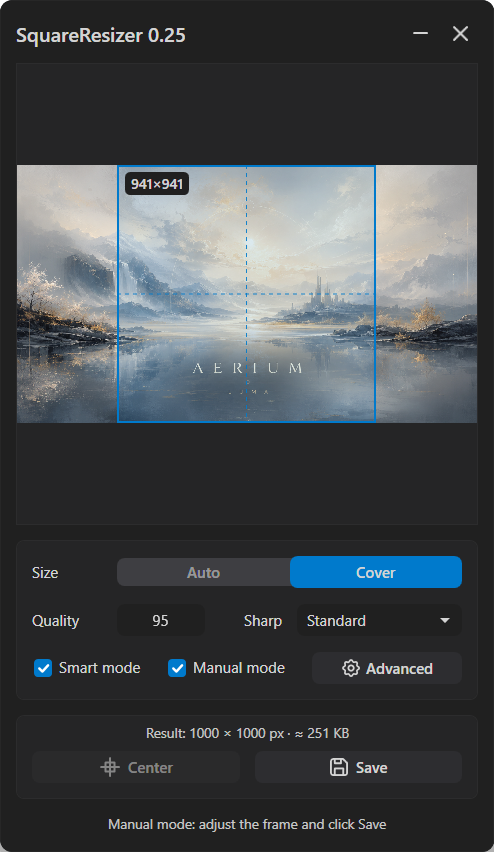
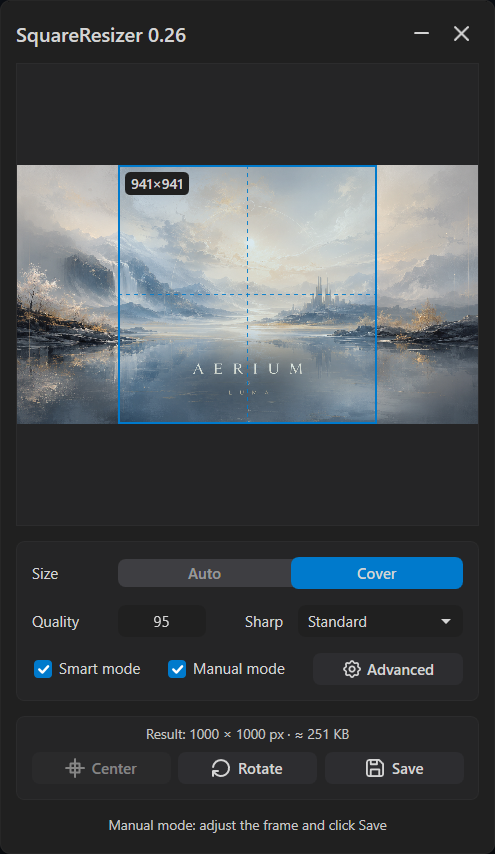
0.26: add manual rotation and per-monitor DPI support

diff --git a/MainWindow.xaml b/MainWindow.xaml
@@ -5,7 +5,7 @@
         xmlns:local="clr-namespace:ImageSquareResizer"
         xmlns:shell="clr-namespace:System.Windows.Shell;assembly=PresentationFramework"
         Title="SquareResizer"
-        Icon="Assets/app.ico"
+        Icon="Assets/squareresizer.ico"
         SizeToContent="WidthAndHeight"
         ResizeMode="CanMinimize"
         WindowStyle="None"
@@ -705,7 +705,9 @@
                     <Grid>
                         <Grid.ColumnDefinitions>
                             <ColumnDefinition Width="*" />
-                            <ColumnDefinition Width="12" />
+                            <ColumnDefinition Width="6" />
+                            <ColumnDefinition Width="*" />
+                            <ColumnDefinition Width="6" />
                             <ColumnDefinition Width="*" />
                         </Grid.ColumnDefinitions>
 
@@ -728,12 +730,39 @@
                                        FontFamily="Segoe UI"
                                        FontSize="12"
                                        FontWeight="SemiBold"
+                                       Foreground="{DynamicResource MainTextBrush}">
+                                <TextBlock.RenderTransform>
+                                    <TranslateTransform X="-1" />
+                                </TextBlock.RenderTransform>
+                            </TextBlock>
+                        </StackPanel>
+                    </Button>
+
+                    <Button x:Name="RotateManualButton"
+                            Grid.Column="2"
+                            Height="26"
+                            Style="{StaticResource RoundedButtonStyle}"
+                            Click="OnRotateManualButtonClick">
+                        <StackPanel Orientation="Horizontal"
+                                    HorizontalAlignment="Center"
+                                    VerticalAlignment="Center"
+                                    IsHitTestVisible="False">
+                            <controls:SvgIcon Width="14"
+                                              Height="14"
+                                              Margin="0,0,6,0"
+                                              Foreground="{DynamicResource MainTextBrush}"
+                                              Source="/Assets/Icons/rotate-cw.svg" />
+                            <TextBlock x:Name="RotateManualButtonText"
+                                       Text="Rotate"
+                                       FontFamily="Segoe UI"
+                                       FontSize="12"
+                                       FontWeight="SemiBold"
                                        Foreground="{DynamicResource MainTextBrush}" />
                         </StackPanel>
                     </Button>
 
                     <Button x:Name="SaveManualButton"
-                            Grid.Column="2"
+                            Grid.Column="4"
                             Height="26"
                             Style="{StaticResource RoundedButtonStyle}"
                             Click="OnSaveManualButtonClick">

diff --git a/UI/State/MainWindow.ManualWorkflow.cs b/UI/State/MainWindow.ManualWorkflow.cs
@@ -3,6 +3,7 @@ using System.IO;
 using System.Linq;
 using System.Windows;
 using System.Windows.Controls;
+using System.Windows.Media;
 using System.Windows.Media.Imaging;
 
 namespace ImageSquareResizer;
@@ -63,6 +64,13 @@ public partial class MainWindow
         e.Handled = true;
     }
 
+    private void OnRotateManualButtonClick(object sender, RoutedEventArgs e)
+    {
+        RotateManualPreviewClockwise();
+        PreviewHost.Focus();
+        e.Handled = true;
+    }
+
     private void OnSaveManualButtonClick(object sender, RoutedEventArgs e)
     {
         SaveManualPreview();
@@ -104,6 +112,7 @@ public partial class MainWindow
             manualState.SourcePath = sourcePath;
             manualState.ImageWidth = bitmap.PixelWidth;
             manualState.ImageHeight = bitmap.PixelHeight;
+            manualState.RotationQuarterTurns = 0;
             int initialCropSize = Math.Min(manualState.ImageWidth, manualState.ImageHeight);
             ApplyManualCrop(ManualCropGeometry.Center(
                 manualState.ImageWidth,
@@ -155,6 +164,37 @@ public partial class MainWindow
         return bitmap;
     }
 
+    private void RotateManualPreviewClockwise()
+    {
+        if (!manualState.IsLoaded ||
+            manualState.ImageWidth <= 0 ||
+            manualState.ImageHeight <= 0 ||
+            PreviewImage.Source is not BitmapSource bitmapSource)
+        {
+            return;
+        }
+
+        int previousWidth = manualState.ImageWidth;
+        int previousHeight = manualState.ImageHeight;
+        ManualCrop rotatedCrop = ManualCropGeometry.RotateClockwise(
+            GetManualCrop(),
+            previousWidth,
+            previousHeight);
+
+        var rotatedBitmap = new TransformedBitmap(bitmapSource, new RotateTransform(90));
+        rotatedBitmap.Freeze();
+
+        PreviewImage.Source = rotatedBitmap;
+        manualState.ImageWidth = previousHeight;
+        manualState.ImageHeight = previousWidth;
+        manualState.RotationQuarterTurns = (manualState.RotationQuarterTurns + 1) % 4;
+        ApplyManualCrop(rotatedCrop);
+
+        UpdateManualPreviewLayout();
+        UpdateManualActionButtons();
+        ScheduleManualFileSizeEstimate();
+    }
+
     private void SaveManualPreview()
     {
         if (!manualState.IsLoaded || string.IsNullOrWhiteSpace(manualState.SourcePath))
@@ -187,7 +227,8 @@ public partial class MainWindow
             manualState.CropSize,
             currentSettings.Language,
             currentSettings.AutoSizeStep,
-            currentSettings.OnlineServiceCompatibility);
+            currentSettings.OnlineServiceCompatibility,
+            manualState.RotationQuarterTurns);
 
         if (!result.Success)
         {
@@ -308,6 +349,7 @@ public partial class MainWindow
 
         SaveManualButton.IsEnabled = hasUnsavedChanges;
         CenterCropButton.IsEnabled = manualMode && manualState.IsLoaded && !IsManualCropCentered();
+        RotateManualButton.IsEnabled = manualMode && manualState.IsLoaded;
 
         if (hasUnsavedChanges)
         {
@@ -335,6 +377,7 @@ public partial class MainWindow
             manualState.CropX,
             manualState.CropY,
             manualState.CropSize,
+            manualState.RotationQuarterTurns,
             AppSettings.NormalizeQuality(quality),
             AppSettings.NormalizeResizeMode(currentSettings.ResizeMode),
             AppSettings.NormalizeSharpMode(currentSettings.SharpMode),

diff --git a/Services/ImageProcessor.cs b/Services/ImageProcessor.cs
@@ -362,7 +362,8 @@ internal static class ImageProcessor
         int cropSize,
         string language = AppSettings.DefaultLanguage,
         int autoSizeStep = AppSettings.DefaultAutoSizeStep,
-        bool onlineServiceCompatibility = AppSettings.DefaultOnlineServiceCompatibility)
+        bool onlineServiceCompatibility = AppSettings.DefaultOnlineServiceCompatibility,
+        int rotationQuarterTurns = 0)
     {
         Localization text = Localization.For(language);
 
@@ -401,6 +402,7 @@ internal static class ImageProcessor
                 cropX,
                 cropY,
                 cropSize,
+                rotationQuarterTurns,
                 autoSizeStep,
                 onlineServiceCompatibility,
                 text.InvalidImageSize);
@@ -432,7 +434,8 @@ internal static class ImageProcessor
         int cropY,
         int cropSize,
         int autoSizeStep = AppSettings.DefaultAutoSizeStep,
-        bool onlineServiceCompatibility = AppSettings.DefaultOnlineServiceCompatibility)
+        bool onlineServiceCompatibility = AppSettings.DefaultOnlineServiceCompatibility,
+        int rotationQuarterTurns = 0)
     {
         if (string.IsNullOrWhiteSpace(sourcePath))
         {
@@ -467,6 +470,7 @@ internal static class ImageProcessor
             cropX,
             cropY,
             cropSize,
+            rotationQuarterTurns,
             autoSizeStep,
             onlineServiceCompatibility,
             "Invalid image size.");
@@ -485,11 +489,20 @@ internal static class ImageProcessor
         int cropX,
         int cropY,
         int cropSize,
+        int rotationQuarterTurns,
         int autoSizeStep,
         bool onlineServiceCompatibility,
         string invalidImageSizeMessage)
     {
         image.AutoOrient();
+
+        int normalizedRotationQuarterTurns = ((rotationQuarterTurns % 4) + 4) % 4;
+
+        if (normalizedRotationQuarterTurns != 0)
+        {
+            image.Rotate(normalizedRotationQuarterTurns * 90.0);
+        }
+
         image.FilterType = FilterType.Lanczos;
 
         int imageWidth = (int)image.Width;

diff --git a/Services/Localization.cs b/Services/Localization.cs
@@ -62,6 +62,7 @@ internal sealed class Localization
     public string DropHereText => IsRussian ? "перенесите его сюда" : "drop it here";
     public string SaveButton => IsRussian ? "Сохранить" : "Save";
     public string CenterCropButton => IsRussian ? "Центрировать" : "Center";
+    public string RotateClockwiseButton => IsRussian ? "Повернуть" : "Rotate";
     public string CloseFileMenuItem => IsRussian ? "Закрыть файл" : "Close file";
     public string CenterCropButtonToolTip => IsRussian ? "Центрировать рамку" : "Center crop frame";
     public string SettingsButtonToolTip => IsRussian ? "Настройки" : "Settings";

diff --git a/UI/Interaction/ManualCropGeometry.cs b/UI/Interaction/ManualCropGeometry.cs
@@ -29,6 +29,19 @@ internal static class ManualCropGeometry
         return crop == Center(imageWidth, imageHeight, crop.Size);
     }
 
+    public static ManualCrop RotateClockwise(ManualCrop crop, int imageWidth, int imageHeight)
+    {
+        if (crop.Size <= 0 || imageWidth <= 0 || imageHeight <= 0)
+        {
+            return crop;
+        }
+
+        return new ManualCrop(
+            ClampCoordinate(imageHeight - crop.Y - crop.Size, imageHeight - crop.Size),
+            ClampCoordinate(crop.X, imageWidth - crop.Size),
+            crop.Size);
+    }
+
     public static ManualCrop Move(
         ManualCrop crop,
         int imageWidth,

diff --git a/UI/State/ManualPreviewState.cs b/UI/State/ManualPreviewState.cs
@@ -23,6 +23,8 @@ internal sealed class ManualPreviewState
 
     public int CropY { get; set; }
 
+    public int RotationQuarterTurns { get; set; }
+
     public ManualResultState? SavedResultState { get; set; }
 
     public double PreviewLeft { get; set; }
@@ -62,6 +64,7 @@ internal sealed class ManualPreviewState
         CropSize = 0;
         CropX = 0;
         CropY = 0;
+        RotationQuarterTurns = 0;
         SavedResultState = null;
         PreviewLeft = 0;
         PreviewTop = 0;

diff --git a/UI/Interaction/MainWindow.SettingsInteraction.cs b/UI/Interaction/MainWindow.SettingsInteraction.cs
@@ -177,6 +177,7 @@ public partial class MainWindow
         DropOrTextBlock.Text = text.DropOrText;
         DropHereTextBlock.Text = text.DropHereText;
         CenterCropButtonText.Text = text.CenterCropButton;
+        RotateManualButtonText.Text = text.RotateClockwiseButton;
         SaveManualButtonText.Text = text.SaveButton;
         SettingsButtonText.Text = text.AdvancedSettingsButtonText;
         CloseFileMenuItem.Header = text.CloseFileMenuItem;

diff --git a/UI/State/MainWindow.ManualEstimate.cs b/UI/State/MainWindow.ManualEstimate.cs
@@ -97,7 +97,8 @@ public partial class MainWindow
                         state.CropY,
                         state.CropSize,
                         state.AutoSizeStep,
-                        state.OnlineServiceCompatibility),
+                        state.OnlineServiceCompatibility,
+                        state.RotationQuarterTurns),
                     token);
             }
             finally

diff --git a/AdditionalPagesControl.xaml.cs b/AdditionalPagesControl.xaml.cs
@@ -31,7 +31,7 @@ public partial class AdditionalPagesControl : UserControl
         "Licenses/Magick.NET-Apache-2.0.txt",
         "Licenses/ImageMagick-License.txt",
         "Licenses/SharpVectors-BSD-3-Clause.txt",
-        "Licenses/SVG-Icons-Licenses.txt",
+        "Licenses/Tabler-MIT.txt",
     };
 
     private AppSettings settingsDraft = new();

diff --git a/UI/State/ManualResultState.cs b/UI/State/ManualResultState.cs
@@ -5,6 +5,7 @@ internal readonly record struct ManualResultState(
     int CropX,
     int CropY,
     int CropSize,
+    int RotationQuarterTurns,
     int Quality,
     string ResizeMode,
     string SharpMode,

diff --git a/README.md b/README.md
@@ -16,7 +16,7 @@ SquareResizer is a compact portable Windows utility that converts images to squa
 
 - Regular processing of one or more images
 - Safe square cropping without stretching
-- Manual mode with preview and a resizable crop frame
+- Manual mode with preview, a resizable crop frame and clockwise image rotation
 - Smart extension of the short side using the background color
 - Output size based on the source or standard cover dimensions
 - JPG quality, JPEG mode and sharpness settings
@@ -31,7 +31,7 @@ SquareResizer is a compact portable Windows utility that converts images to squa
 2. Configure quality, sharpness, smart mode and manual mode
 3. Open a file with the button or drag an image into the window
 4. Regular mode saves the result automatically
-5. Manual mode lets you adjust the frame and click Save
+5. In manual mode, adjust the frame, rotate the image if needed and click Save
 
 ## Processing modes
 
@@ -41,7 +41,7 @@ SquareResizer is a compact portable Windows utility that converts images to squa
 
 **Smart mode** extends the background when the side difference fits the configured limits. Otherwise, the image is cropped to a square by the shorter side
 
-**Manual mode** lets you move and resize the square frame. `Alt` resizes it symmetrically, arrow keys move it by 1 px, `Shift + arrow keys` by 10 px, `Ctrl + Home` centers it, `Ctrl + S` saves it and `Esc` closes the image
+**Manual mode** lets you move and resize the square frame and rotate the image 90° clockwise. `Alt` resizes the frame symmetrically, arrow keys move it by 1 px, `Shift + arrow keys` by 10 px, `Ctrl + Home` centers it, `Ctrl + S` saves it and `Esc` closes the image
 
 ## Settings
 
